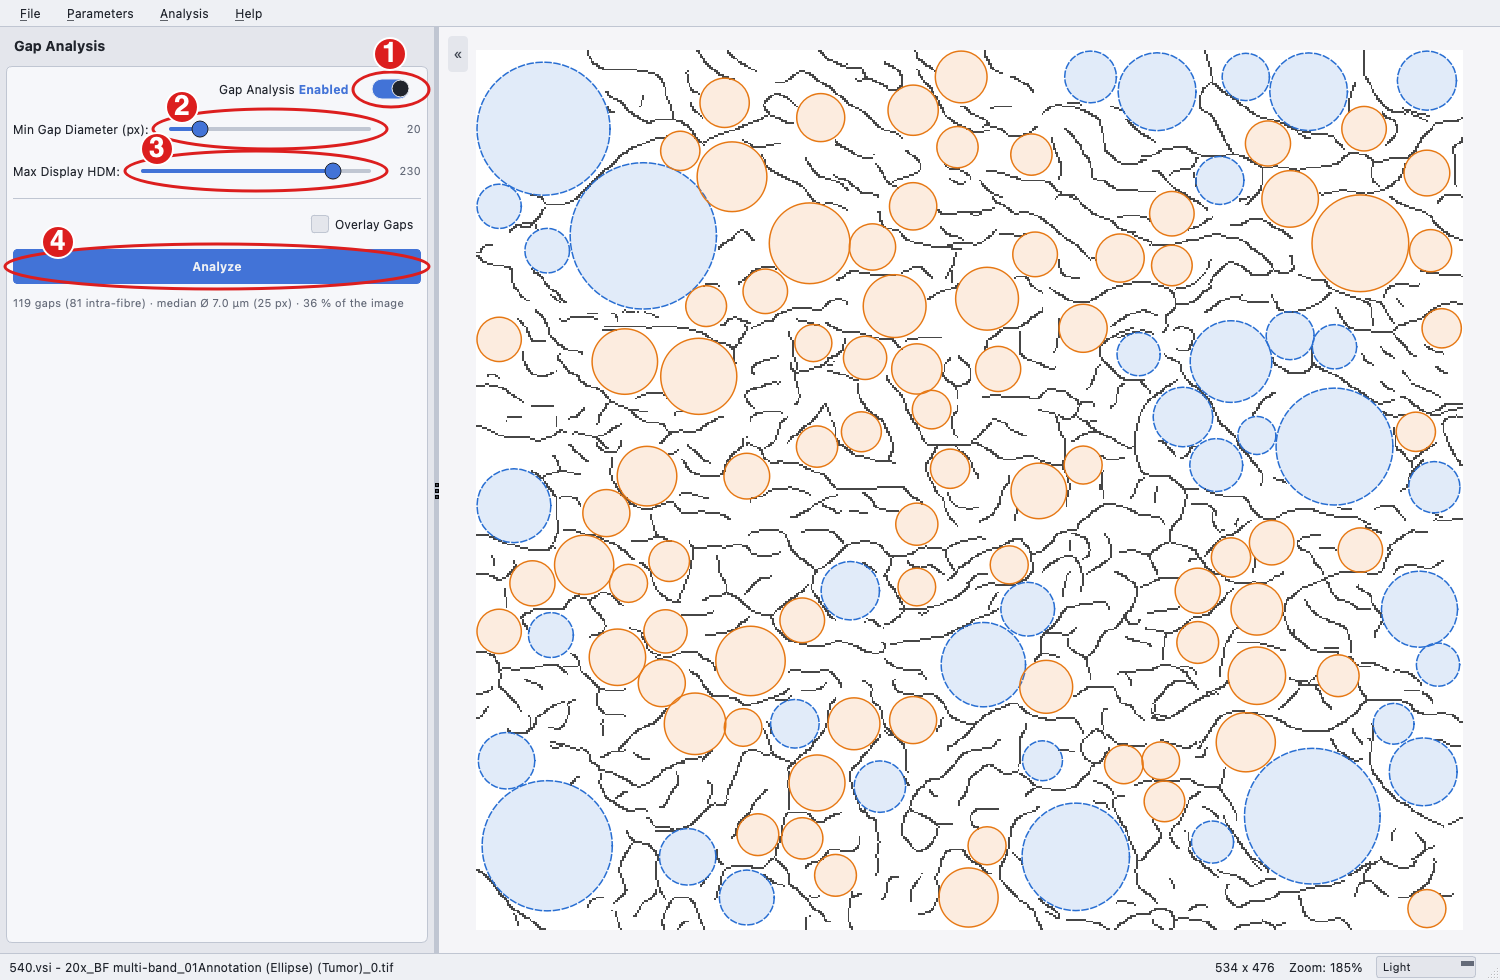
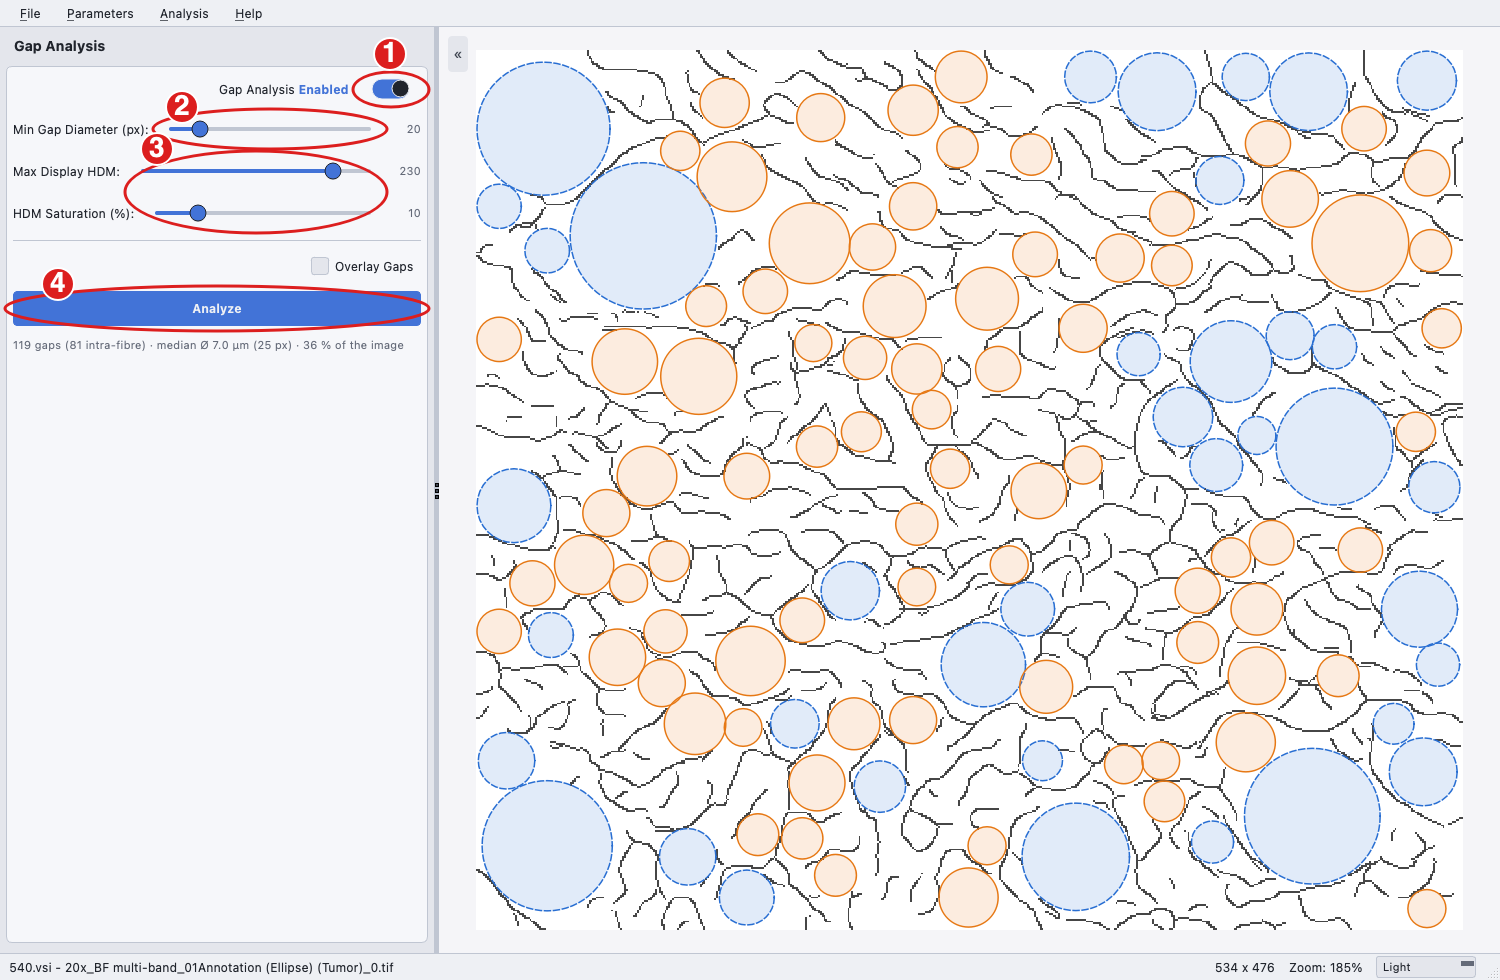
Show the Quantification parameters in the GUI
Min Branch Length, Curvature Window and Window Step are on the Fibre
Detection page and HDM Saturation (Contrast Enhancement) on the Gap
Analysis page; all were file-only before.

Changed region(s): [[0.0, 0.1531, 0.3067, 0.3673]]

diff --git a/cabana/cabana_gui.py b/cabana/cabana_gui.py
@@ -2494,6 +2494,71 @@ class MainWindow(QMainWindow):
         self.detect_btn.setStyleSheet(self.primary_btn_style)
         layout.addWidget(self.detect_btn)
 
+        # Fibre measurements: used by the skeleton analysis of a full run
+        # (Batch Run), not by the Detect preview above
+        layout.addWidget(create_separator())
+        measure_label = QLabel("Fibre measurements (used when the analysis runs):")
+        measure_label.setToolTip("These settings shape the fibre metrics of a full analysis (Batch Run);\n"
+                                 "they do not change the Detect preview.")
+        layout.addWidget(measure_label)
+
+        min_branch_layout = QHBoxLayout()
+        min_branch_label = QLabel("Min Branch Length (px):")
+        min_branch_layout.addWidget(min_branch_label)
+        self.min_branch_slider = CustomSlider(Qt.Horizontal)
+        self.min_branch_slider.setRange(1, 100)
+        self.min_branch_slider.setValue(5)  # Default
+        self.min_branch_slider.valueChanged.connect(self.update_min_branch)
+        self.min_branch_slider.setToolTip(
+            "Side branches of the fibre skeleton shorter than this are pruned before length,\n"
+            "branching and curvature are measured. (Minimum Line Length drops whole lines.)")
+        min_branch_layout.addWidget(self.min_branch_slider)
+        self.min_branch_value = QLabel("5")
+        self.min_branch_value.setFixedWidth(30)
+        self.min_branch_value.setAlignment(Qt.AlignVCenter | Qt.AlignRight)
+        self.min_branch_value.setStyleSheet(
+            self.value_label_style)
+        min_branch_layout.addWidget(self.min_branch_value)
+        layout.addLayout(min_branch_layout)
+
+        curve_window_layout = QHBoxLayout()
+        curve_window_label = QLabel("Curvature Window (px):")
+        curve_window_layout.addWidget(curve_window_label)
+        self.curve_window_range = RangeSlider(Qt.Horizontal)
+        self.curve_window_range.setRange(2, 100)
+        self.curve_window_range.setValues(10, 30)  # Default values
+        self.curve_window_range.valueChanged.connect(self.update_curve_window_range)
+        self.curve_window_range.setSizePolicy(QSizePolicy.Expanding, QSizePolicy.Fixed)
+        self.curve_window_range.setToolTip(
+            "Curvature is measured along the fibres over windows from the smaller to the larger\n"
+            "size, in steps of Window Step; each window gives one Curvature column.\n"
+            "Larger windows measure broader bends.")
+        curve_window_layout.addWidget(self.curve_window_range, 3)
+        self.curve_window_value = QLabel("(10, 30)")
+        self.curve_window_value.setFixedWidth(70)
+        self.curve_window_value.setAlignment(Qt.AlignVCenter | Qt.AlignRight)
+        self.curve_window_value.setStyleSheet(
+            self.value_label_style)
+        curve_window_layout.addWidget(self.curve_window_value)
+        layout.addLayout(curve_window_layout)
+
+        curve_step_layout = QHBoxLayout()
+        curve_step_label = QLabel("Window Step (px):")
+        curve_step_layout.addWidget(curve_step_label)
+        self.curve_step_slider = CustomSlider(Qt.Horizontal)
+        self.curve_step_slider.setRange(1, 100)
+        self.curve_step_slider.setValue(10)  # Default
+        self.curve_step_slider.valueChanged.connect(self.update_curve_step)
+        self.curve_step_slider.setToolTip("Spacing between the curvature window sizes.")
+        curve_step_layout.addWidget(self.curve_step_slider)
+        self.curve_step_value = QLabel("10")
+        self.curve_step_value.setFixedWidth(30)
+        self.curve_step_value.setAlignment(Qt.AlignVCenter | Qt.AlignRight)
+        self.curve_step_value.setStyleSheet(
+            self.value_label_style)
+        curve_step_layout.addWidget(self.curve_step_value)
+        layout.addLayout(curve_step_layout)
+
         layout.addStretch()
         self.det_tab.setLayout(layout)
 
@@ -2554,6 +2619,26 @@ class MainWindow(QMainWindow):
             self.value_label_style)
         max_hdm_layout.addWidget(self.max_hdm_value)
         layout.addLayout(max_hdm_layout)
+
+        # HDM saturation (Quantification: Contrast Enhancement, a fraction)
+        hdm_sat_layout = QHBoxLayout()
+        hdm_sat_label = QLabel("HDM Saturation (%):")
+        hdm_sat_layout.addWidget(hdm_sat_label)
+        self.hdm_saturation_slider = CustomSlider(Qt.Horizontal)
+        self.hdm_saturation_slider.setRange(0, 50)
+        self.hdm_saturation_slider.setValue(10)  # Default 0.1
+        self.hdm_saturation_slider.valueChanged.connect(self.update_hdm_saturation)
+        self.hdm_saturation_slider.setToolTip(
+            "Share of pixels saturated when the HDM contrast is stretched (split between the\n"
+            "darkest and brightest ends). Used when the analysis runs, not by Analyze.")
+        hdm_sat_layout.addWidget(self.hdm_saturation_slider)
+        self.hdm_saturation_value = QLabel("10")
+        self.hdm_saturation_value.setFixedWidth(30)
+        self.hdm_saturation_value.setAlignment(Qt.AlignVCenter | Qt.AlignRight)
+        self.hdm_saturation_value.setStyleSheet(
+            self.value_label_style)
+        hdm_sat_layout.addWidget(self.hdm_saturation_value)
+        layout.addLayout(hdm_sat_layout)
 
         # Overlay checkbox
         layout.addWidget(create_separator())
@@ -2724,6 +2809,34 @@ class MainWindow(QMainWindow):
         self.max_hdm_value.setText(str(value))
         self.yml_data["Quantification"]["Maximum Display HDM"] = value
 
+    def update_min_branch(self):
+        """Update Quantification: Minimum Branch Length"""
+        value = self.min_branch_slider.value()
+        self.min_branch_value.setText(str(value))
+        self.yml_data.setdefault("Quantification", {})["Minimum Branch Length"] = value
+
+    def update_curve_window_range(self, min_val, max_val):
+        """Update Quantification: Minimum/Maximum Curvature Window"""
+        self.curve_window_value.setText(f"({min_val}, {max_val})")
+        quant = self.yml_data.setdefault("Quantification", {})
+        quant["Minimum Curvature Window"] = min_val
+        quant["Maximum Curvature Window"] = max_val
+
+    def update_curve_step(self):
+        """Update Quantification: Curvature Window Step"""
+        value = self.curve_step_slider.value()
+        self.curve_step_value.setText(str(value))
+        self.yml_data.setdefault("Quantification", {})["Curvature Window Step"] = value
+
+    def update_hdm_saturation(self):
+        """Update Quantification: Contrast Enhancement (slider in percent)"""
+        value = self.hdm_saturation_slider.value()
+        self.hdm_saturation_value.setText(str(value))
+        quant = self.yml_data.setdefault("Quantification", {})
+        # keep a finer value from a parameter file that rounds to this percent
+        if round(float(quant.get("Contrast Enhancement", -1)) * 100) != value:
+            quant["Contrast Enhancement"] = value / 100
+
     def load_default_params(self):
         """Load default parameters from YAML file"""
         default_params_path = Path(os.path.join(os.path.dirname(__file__), "default_params.yml"))
@@ -2856,6 +2969,15 @@ class MainWindow(QMainWindow):
         # Quantification widgets
         if "Maximum Display HDM" in quant:
             self.max_hdm_slider.setValue(quant["Maximum Display HDM"])
+        if "Contrast Enhancement" in quant:
+            self.hdm_saturation_slider.setValue(int(round(float(quant["Contrast Enhancement"]) * 100)))
+        if "Minimum Branch Length" in quant:
+            self.min_branch_slider.setValue(int(quant["Minimum Branch Length"]))
+        if "Minimum Curvature Window" in quant and "Maximum Curvature Window" in quant:
+            self.curve_window_range.setValues(int(quant["Minimum Curvature Window"]),
+                                              int(quant["Maximum Curvature Window"]))
+        if "Curvature Window Step" in quant:
+            self.curve_step_slider.setValue(int(quant["Curvature Window Step"]))
 
     def load_original_image(self, path):
         """Load the original image from a file path"""
@@ -3651,7 +3773,9 @@ class MainWindow(QMainWindow):
         # Value labels (slider readouts)
         for label in (self.color_thresh_value, self.num_labels_value, self.max_iters_value,
                       self.line_width_value, self.line_step_value, self.contrast_value,
-                      self.min_length_value, self.min_gap_value, self.max_hdm_value):
+                      self.min_length_value, self.min_gap_value, self.max_hdm_value,
+                      self.min_branch_value, self.curve_window_value, self.curve_step_value,
+                      self.hdm_saturation_value):
             label.setStyleSheet(self.value_label_style)
 
         # Status bar

diff --git a/tests/test_gui_parameters.py b/tests/test_gui_parameters.py
@@ -1,0 +1,92 @@
+"""Tests for the Quantification parameters shown in the GUI (offscreen Qt)."""
+
+import os
+import sys
+
+import pytest
+import yaml
+
+os.environ.setdefault("QT_QPA_PLATFORM", "offscreen")
+sys.path.insert(0, os.path.dirname(os.path.dirname(os.path.abspath(__file__))))
+
+pytest.importorskip("PyQt5")
+from PyQt5.QtCore import QEventLoop, QTimer  # noqa: E402
+from PyQt5.QtWidgets import QApplication  # noqa: E402
+
+
+@pytest.fixture(scope="module")
+def app():
+    return QApplication.instance() or QApplication([])
+
+
+def settle(app, ms=50):
+    loop = QEventLoop()
+    QTimer.singleShot(ms, loop.quit)
+    loop.exec_()
+    app.processEvents()
+
+
+@pytest.fixture
+def win(app):
+    from cabana.cabana_gui import MainWindow
+    w = MainWindow()
+    w.show()
+    settle(app)
+    yield w
+    w.close()
+
+
+def test_quantification_controls_show_the_defaults(win):
+    q = win.yml_data["Quantification"]
+    assert win.min_branch_slider.value() == q["Minimum Branch Length"] == 5
+    assert (win.curve_window_range.lower_value, win.curve_window_range.upper_value) == (10, 30)
+    assert win.curve_step_slider.value() == q["Curvature Window Step"] == 10
+    assert win.hdm_saturation_slider.value() == 10 and q["Contrast Enhancement"] == 0.1
+
+
+def test_quantification_controls_write_the_parameters(win):
+    from cabana.stages import curve_windows_from_args
+    win.min_branch_slider.setValue(12)
+    win.curve_window_range.setValues(8, 40)
+    win.curve_step_slider.setValue(16)
+    win.hdm_saturation_slider.setValue(25)
+    q = win.yml_data["Quantification"]
+    assert q["Minimum Branch Length"] == 12
+    assert (q["Minimum Curvature Window"], q["Maximum Curvature Window"], q["Curvature Window Step"]) == (8, 40, 16)
+    assert q["Contrast Enhancement"] == 0.25
+    assert win.curve_window_value.text() == "(8, 40)" and win.hdm_saturation_value.text() == "25"
+    assert list(curve_windows_from_args(win.yml_data)) == [8, 24, 40]
+
+
+def test_loaded_parameter_file_sets_the_controls(win, tmp_path):
+    data = yaml.safe_load(open(os.path.join(os.path.dirname(__file__), "..", "cabana", "default_params.yml")))
+    data["Quantification"].update({"Minimum Branch Length": 7, "Minimum Curvature Window": 20,
+                                   "Maximum Curvature Window": 60, "Curvature Window Step": 20,
+                                   "Contrast Enhancement": 0.125})
+    win.yml_data = data
+    win.apply_params_to_widgets()
+    assert win.min_branch_slider.value() == 7
+    assert (win.curve_window_range.lower_value, win.curve_window_range.upper_value) == (20, 60)
+    assert win.curve_step_slider.value() == 20
+    assert win.hdm_saturation_slider.value() == 12
+    # the slider shows whole percents; a finer value from the file is kept
+    assert win.yml_data["Quantification"]["Contrast Enhancement"] == 0.125
+    assert win.yml_data["Quantification"]["Minimum Curvature Window"] == 20
+
+
+def test_restore_defaults_resets_the_controls(win):
+    win.min_branch_slider.setValue(30)
+    win.hdm_saturation_slider.setValue(40)
+    win.restore_default_parameters()
+    assert win.min_branch_slider.value() == 5 and win.hdm_saturation_slider.value() == 10
+    assert win.yml_data["Quantification"]["Contrast Enhancement"] == 0.1
+
+
+def test_theme_switch_restyles_the_new_value_labels(win):
+    for label in (win.min_branch_value, win.curve_window_value, win.curve_step_value,
+                  win.hdm_saturation_value):
+        label.setStyleSheet("")
+    win._reapply_widget_styles()
+    for label in (win.min_branch_value, win.curve_window_value, win.curve_step_value,
+                  win.hdm_saturation_value):
+        assert label.styleSheet() == win.value_label_style

diff --git a/docs/make_screenshots.py b/docs/make_screenshots.py
@@ -167,6 +167,7 @@ def main(argv):
             (4, rect_of(win, win.min_length_slider)),
             (5, union(win, (win.dark_line_cb, win.extend_line_cb, win.overlay_fibres_cb)), "right"),
             (6, rect_of(win, win.detect_btn)),
+            (7, union(win, (win.min_branch_slider, win.curve_window_range, win.curve_step_slider))),
         ])
 
     if analysis:
@@ -178,7 +179,7 @@ def main(argv):
         grab(win, "gap_analysis.png", [
             (1, rect_of(win, win.toggle_gap_btn), "above"),
             (2, rect_of(win, win.min_gap_slider)),
-            (3, rect_of(win, win.max_hdm_slider)),
+            (3, union(win, (win.max_hdm_slider, win.hdm_saturation_slider))),
             (4, rect_of(win, win.analyze_btn)),
         ])
 

diff --git a/docs/source/parameters.md b/docs/source/parameters.md
@@ -25,9 +25,9 @@ All parameters live in the YAML parameter file (`Parameters.yml`, exported from 
 | Detection | Minimum Line Length | 5 | px | slider |
 | Detection | Maximum Line Length | 0 (no limit) | px | file only |
 | Quantification | Maximum Display HDM | 230 | grey level | slider |
-| Quantification | Contrast Enhancement | 0.1 | fraction | file only |
-| Quantification | Minimum Branch Length | 5 | px | file only |
-| Quantification | Minimum / Maximum Curvature Window, Curvature Window Step | 10 / 30 / 10 | px | file only |
+| Quantification | Contrast Enhancement | 0.1 | fraction | Gap Analysis page (HDM Saturation, %) |
+| Quantification | Minimum Branch Length | 5 | px | Fibre Detection page slider |
+| Quantification | Minimum / Maximum Curvature Window, Curvature Window Step | 10 / 30 / 10 | px | Fibre Detection page range slider and slider |
 | Gap Analysis | Minimum Gap Diameter | 20 | px | slider |
 
 The folders of a run (parameter file, input, output and the optional ROI mask folder) are chosen on the Batch Run page and are not part of the parameter file; the folders used are recorded in `version_params.yaml` in the output folder.
@@ -138,15 +138,15 @@ if the `Dark Line` is set to `true` (for Picrosirius Red), the low contrast and 
 
 1. **Contrast Enhancement**
 
-   A value between [0,1] shows the percent of pixels that will be saturated for contrast enhancement.
+   A value between [0,1] shows the percent of pixels that will be saturated for contrast enhancement of the HDM image. The GUI shows it in percent as **HDM Saturation** on the Gap Analysis page.
 
 2. **Min/Max Curvature Window and Curvature Window Step**
 
-   The curvature of ridges/lines in curvature windows bounded by the minimum and maximum curvature windows with a window step size.
+   The curvature of ridges/lines in curvature windows bounded by the minimum and maximum curvature windows with a window step size. Set on the Fibre Detection page as **Curvature Window** and **Window Step**.
 
 3. **Minimum Branch Length**
 
-   Any line/ridge with a length smaller than this value is ignored.
+   Side branches of the fibre skeleton shorter than this value are pruned before length, branching and curvature are measured. Set on the Fibre Detection page as **Min Branch Length**.
 
    Note: If the minimum branch length value is too low, short branch artefacts are introduced.
 

diff --git a/docs/source/workflow.md b/docs/source/workflow.md
@@ -38,6 +38,7 @@ To begin, select a representative image from your dataset, then work through the
 4. **Minimum Line Length (px).** Shorter fibres are ignored.
 5. **Dark Line** detects dark fibres on a light background (Picrosirius Red); disable it for bright fibres on a dark background (fluorescence, SHG). **Extend Line** enables detection near junctions and may produce artefacts, so use it with caution. **Overlay Fibres** draws the detected fibres over the image in the viewer.
 6. **Detect** runs the step on the segmented image when segmentation is enabled, otherwise on the original.
+7. **Fibre measurements.** Settings used when the analysis runs (Batch Run), not by **Detect**: **Min Branch Length (px)** prunes shorter side branches of the fibre skeleton before length, branching and curvature are measured; **Curvature Window (px)** and **Window Step (px)** set the window sizes over which curvature is measured, one Curvature column per window.
 
 ## Gap Analysis
 
@@ -45,7 +46,7 @@ To begin, select a representative image from your dataset, then work through the
 
 1. **Gap Analysis toggle.** Turns the gap analysis step on or off for the GUI and batch runs.
 2. **Min Gap Diameter (px).** The smallest gap to report.
-3. **Max Display HDM.** The maximum intensity value of the high-density matrix.
+3. **Max Display HDM.** The maximum intensity value of the high-density matrix. **HDM Saturation (%)** is the share of pixels saturated when the HDM contrast is stretched. Both are used when the analysis runs (Batch Run), not by **Analyze**.
 4. **Analyze** fills the gaps between the detected fibres with circles: orange for intra-fibre gaps (inside the segmented region) and blue with a dashed outline for the others. Below the button it shows how many gaps were found, how many are intra-fibre, their median diameter and how much of the image they cover. **Overlay Gaps** shows the circles over the faded tissue image, with the fibres drawn on top.
 
 ## Exporting parameters
